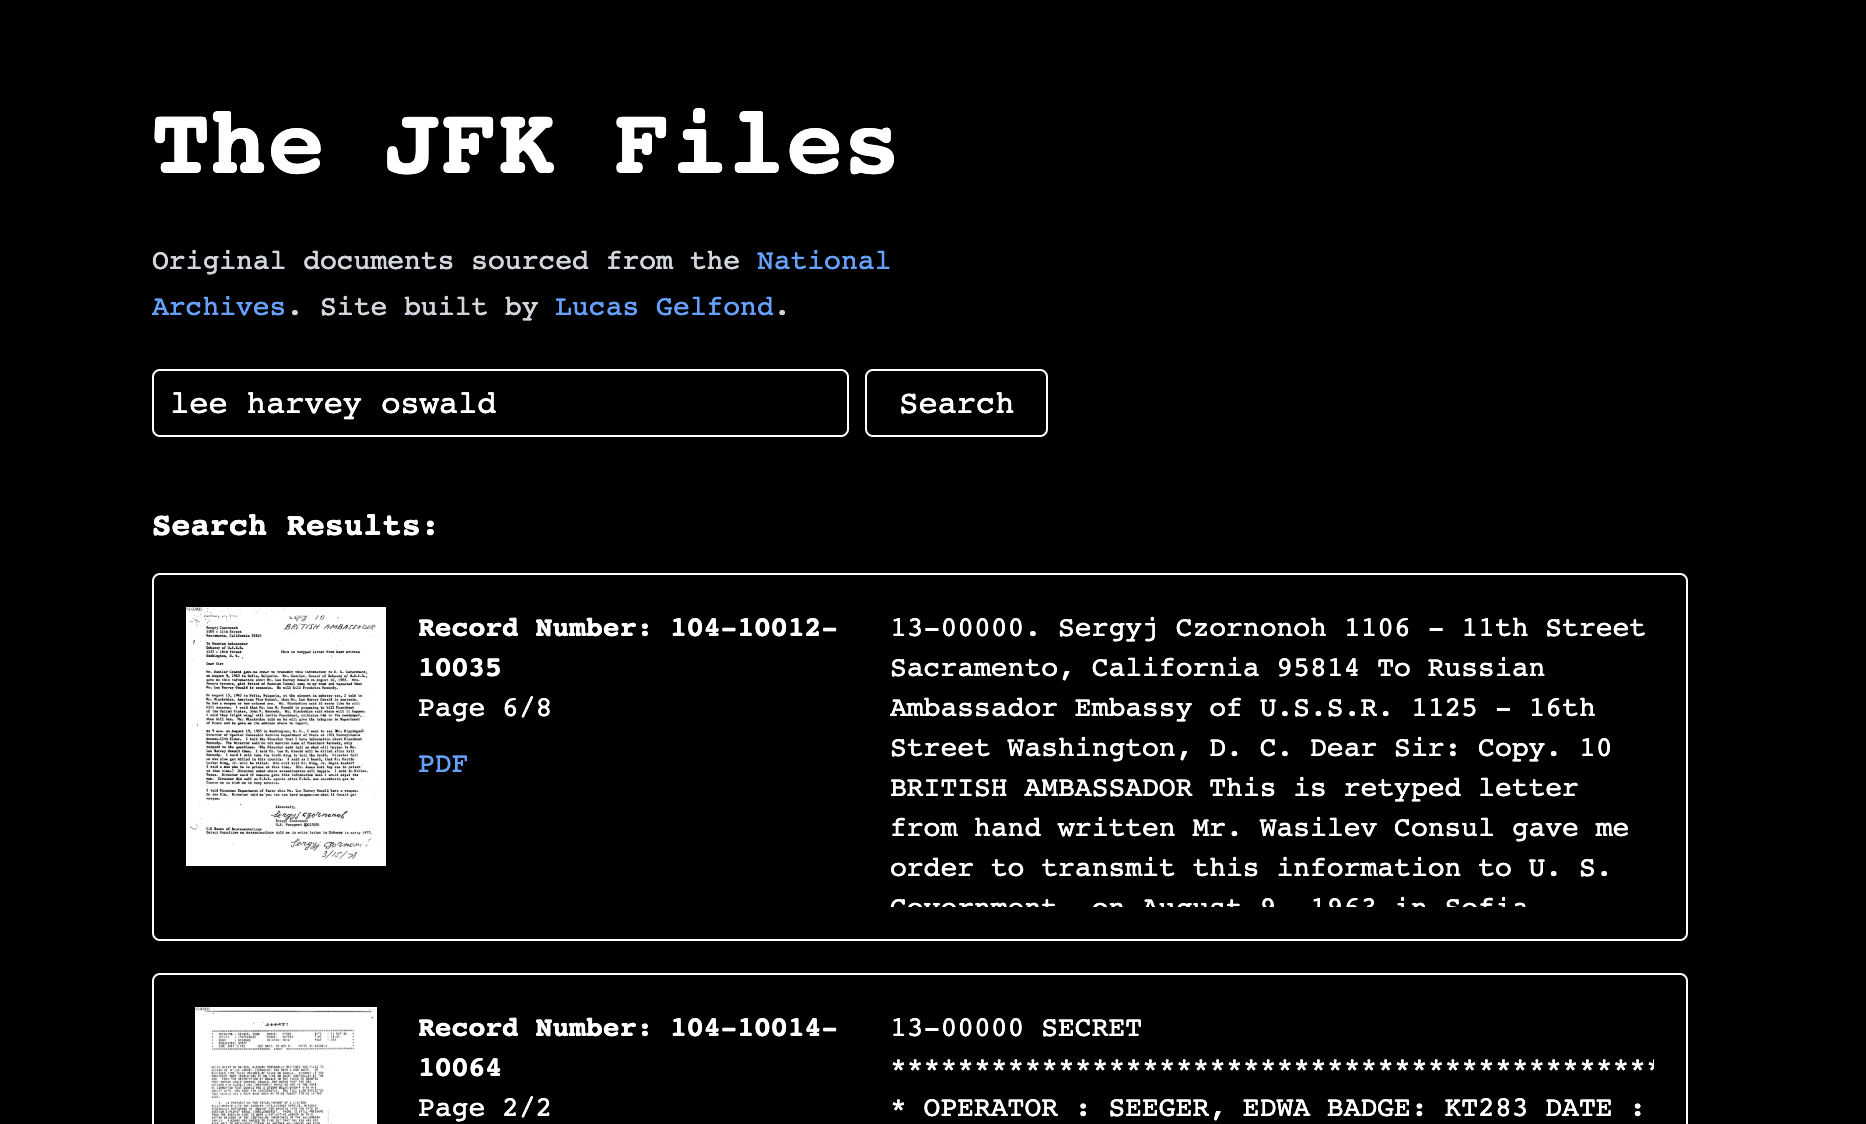
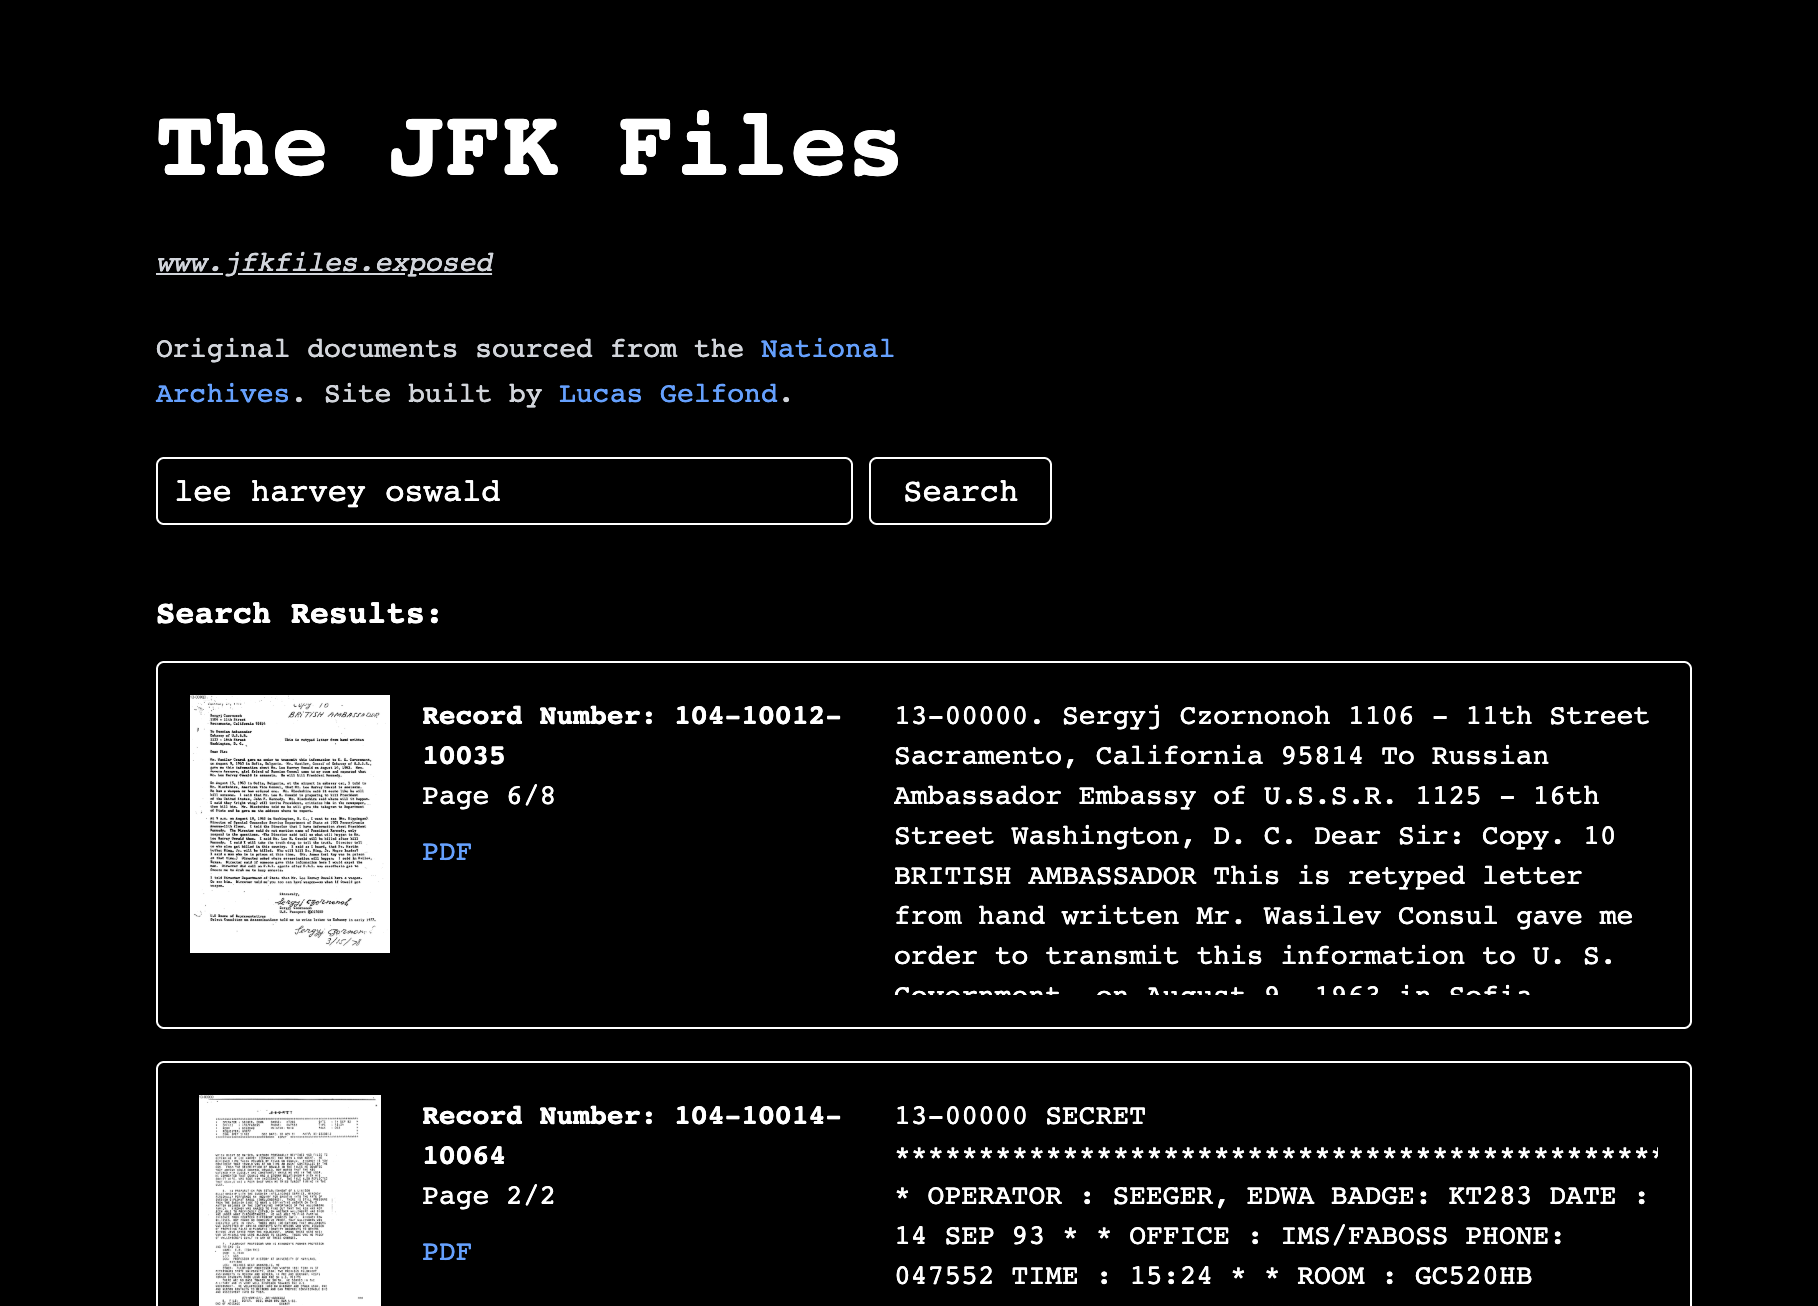
new header

diff --git a/frontend/src/routes/+page.svelte b/frontend/src/routes/+page.svelte
@@ -168,10 +168,13 @@
       <h1 class="text-4xl md:text-5xl font-bold mb-6 text-wrap text-white">
         The JFK Files 
       </h1>
-
-      <h2 class="text-sm mb-5 text-gray-300 max-w-[60vh] leading-relaxed">
-        Original documents sourced from the <a href="https://www.archives.gov/research/jfk/release-2025" class="text-blue-400 hover:underline">National Archives</a>. Site built by <a href="https://lucasgelfond.online" class="text-blue-400 hover:underline">Lucas Gelfond</a>.
+      <h2 class="text-sm mb-5 text-gray-300 max-w-[60vh] leading-relaxed italic">
+        <a href="http://jfkfiles.exposed" class="underline">www.jfkfiles.exposed</a>
       </h2>
+
+      <h3 class="text-sm mb-5 text-gray-300 max-w-[60vh] leading-relaxed">
+        Original documents sourced from the <a href="https://www.archives.gov/research/jfk/release-2025" class="text-blue-400 hover:underline">National Archives</a>. Site built by <a href="https://lucasgelfond.online" class="text-blue-400 hover:underline">Lucas Gelfond</a>.
+      </h3>
 
       <div class="max-w-[60vh]">
         <div class="flex w-full gap-2">
